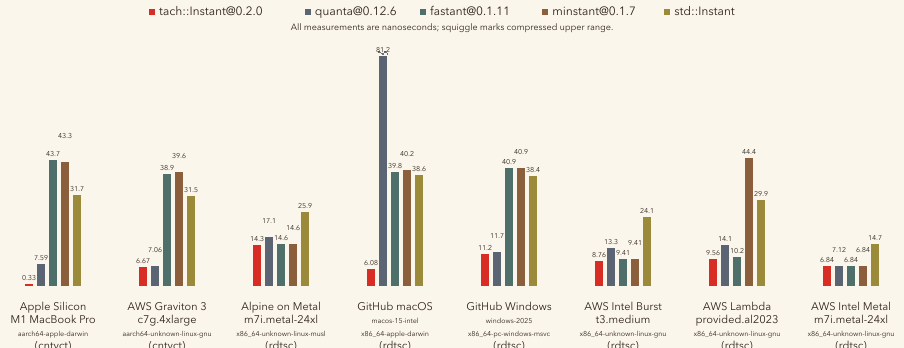
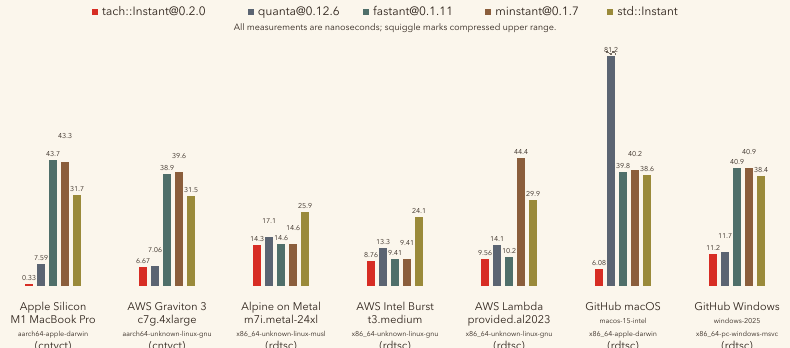
docs(benches): drop AWS Intel Metal cell, group GitHub cells at end
Chart now leads with the production-cloud and bare-metal cells
(Apple Silicon, Graviton 3, Alpine-on-Metal, t3.medium, Lambda)
and ends with the GitHub Actions cells (macOS Intel, Windows 2025)
to keep CI runners visually separated from production targets.

diff --git a/benches/assets/render_benchmark.py b/benches/assets/render_benchmark.py
@@ -66,16 +66,14 @@ INSTANT_GROUPS = [
    [6.673, 7.062, 38.939, 39.578, 31.463]),
   (("Alpine on Metal", "m7i.metal-24xl", "x86_64-unknown-linux-musl", "(rdtsc)"),
    [14.316, 17.074, 14.625, 14.625, 25.865]),
-  (("GitHub macOS", "macos-15-intel", "x86_64-apple-darwin", "(rdtsc)"),
-   [6.076, 81.234, 39.790, 40.199, 38.587]),
-  (("GitHub Windows", "windows-2025", "x86_64-pc-windows-msvc", "(rdtsc)"),
-   [11.245, 11.670, 40.925, 40.926, 38.396]),
   (("AWS Intel Burst", "t3.medium", "x86_64-unknown-linux-gnu", "(rdtsc)"),
    [8.762, 13.314, 9.408, 9.408, 24.059]),
   (("AWS Lambda", "provided.al2023", "x86_64-unknown-linux-gnu", "(rdtsc)"),
    [9.556, 14.102, 10.206, 44.386, 29.919]),
-  (("AWS Intel Metal", "m7i.metal-24xl", "x86_64-unknown-linux-gnu", "(rdtsc)"),
-   [6.842, 7.121, 6.842, 6.842, 14.679]),
+  (("GitHub macOS", "macos-15-intel", "x86_64-apple-darwin", "(rdtsc)"),
+   [6.076, 81.234, 39.790, 40.199, 38.587]),
+  (("GitHub Windows", "windows-2025", "x86_64-pc-windows-msvc", "(rdtsc)"),
+   [11.245, 11.670, 40.925, 40.926, 38.396]),
 ]
 
 BAR_WIDTH = 8
